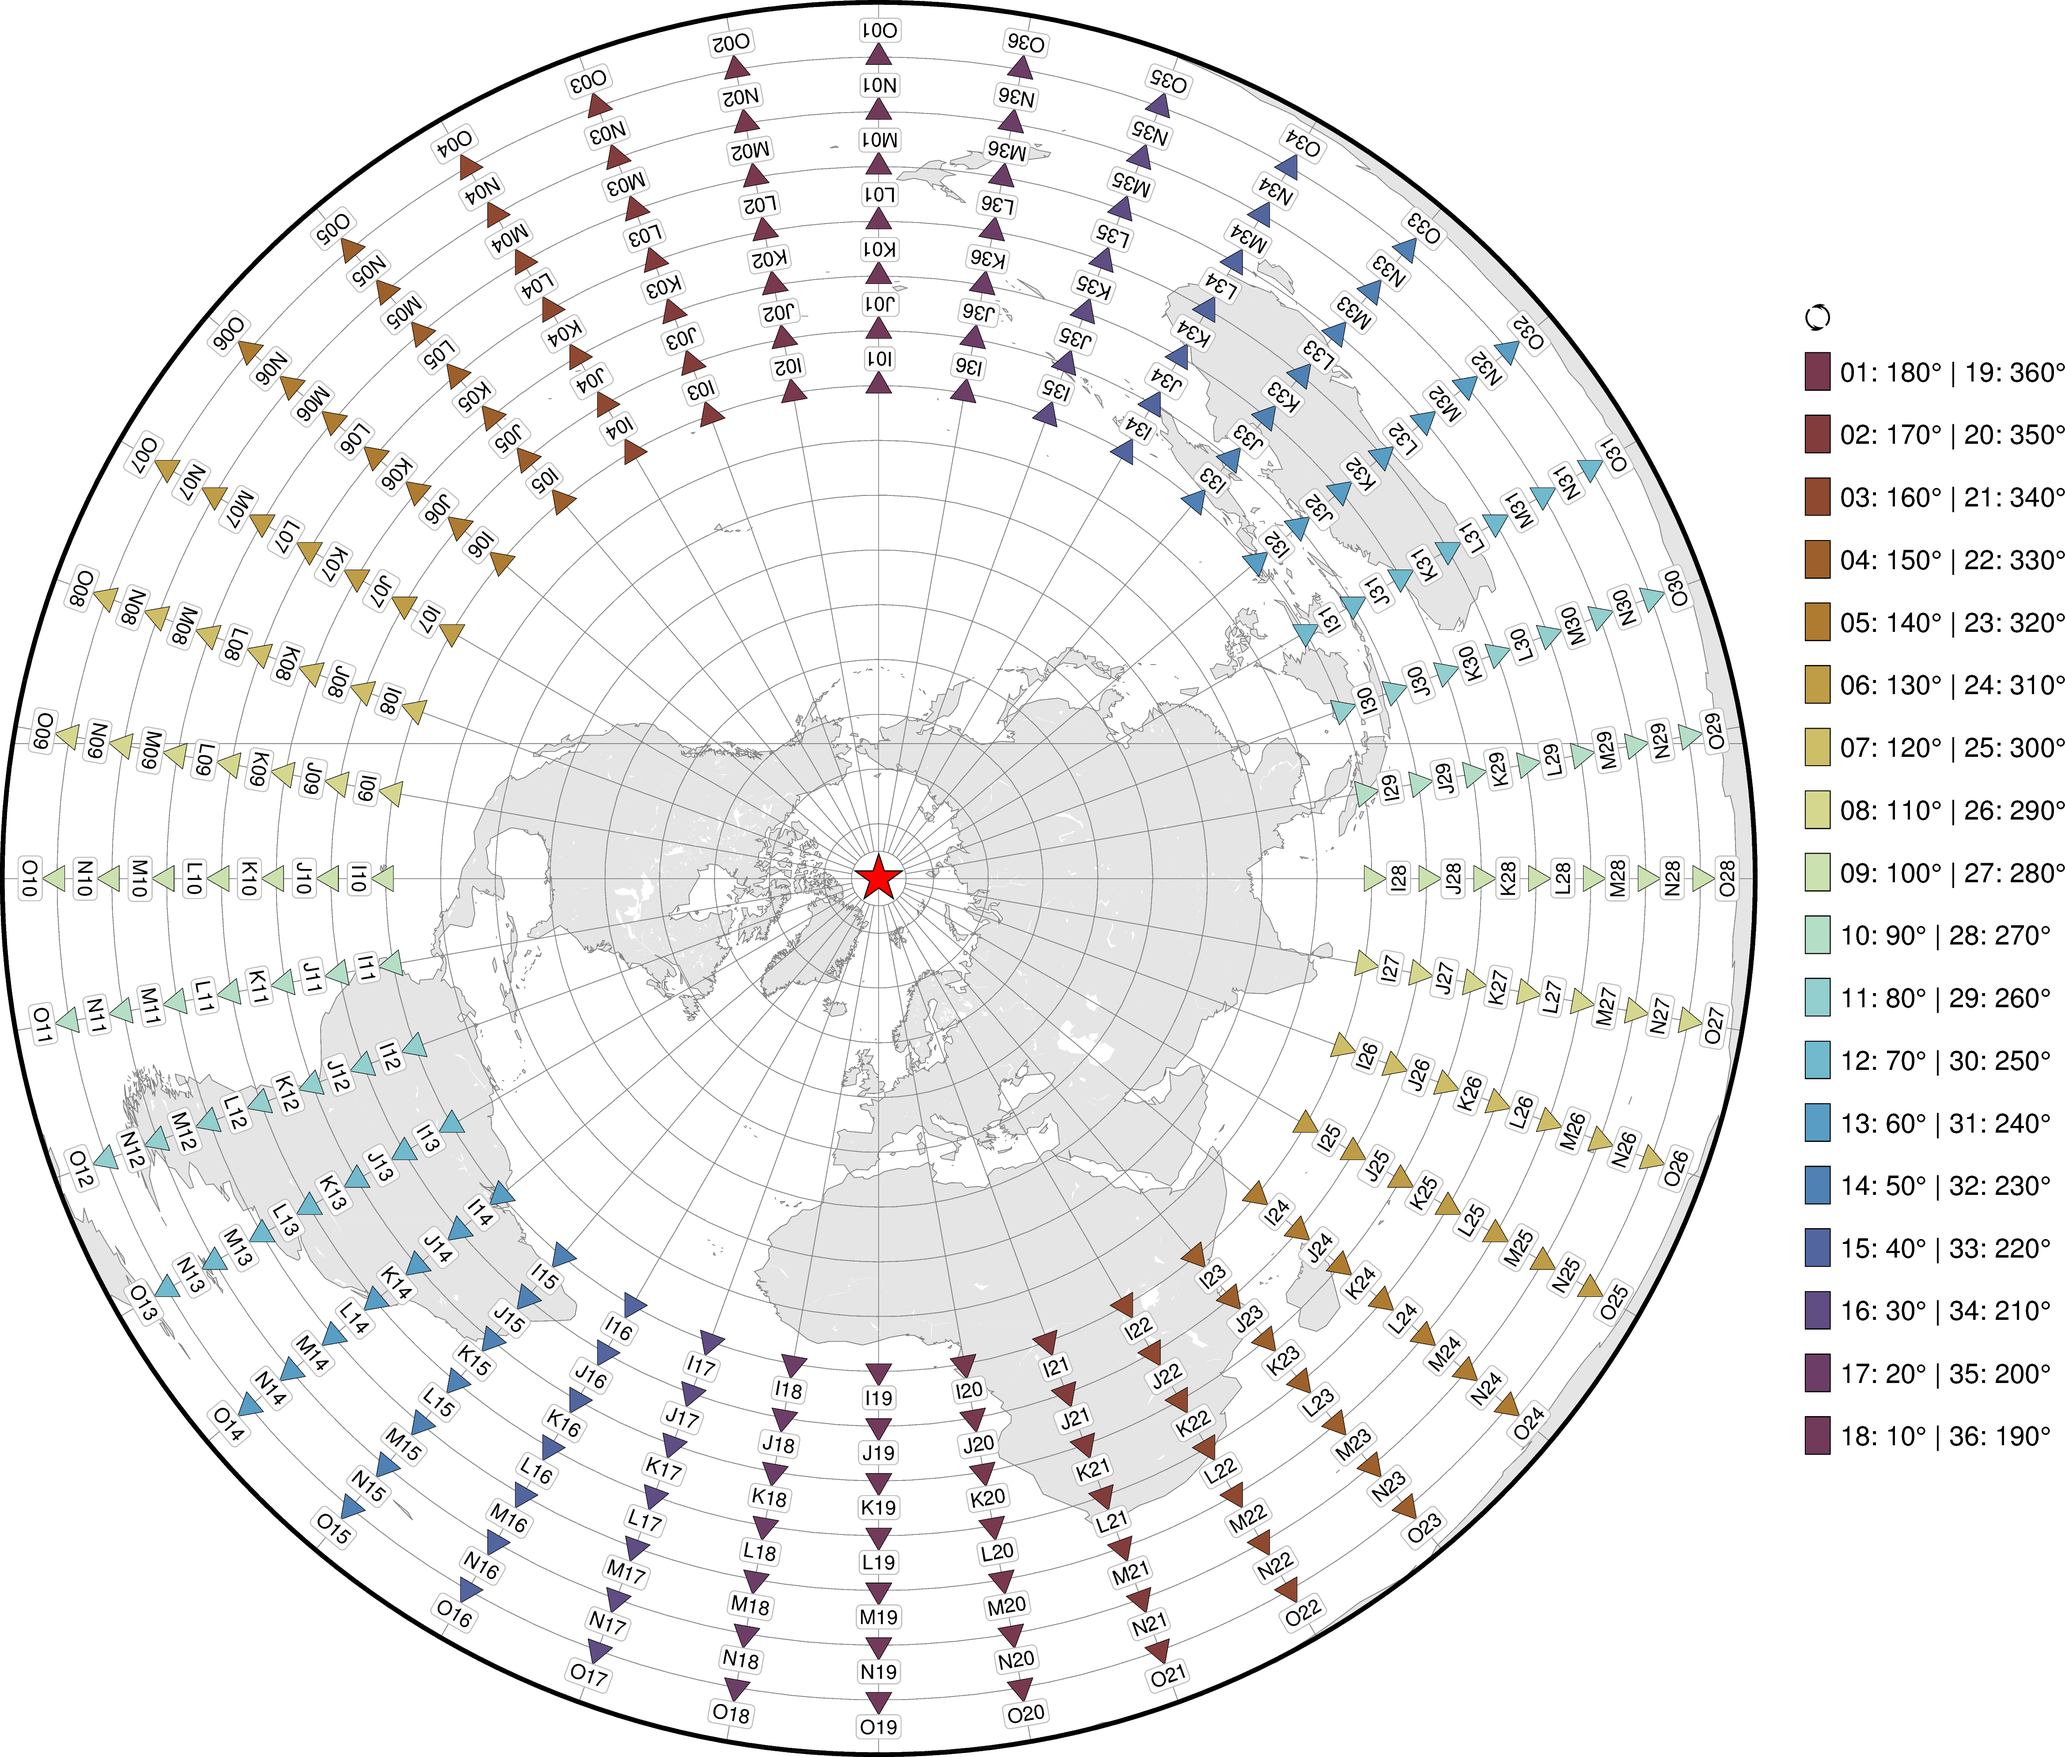
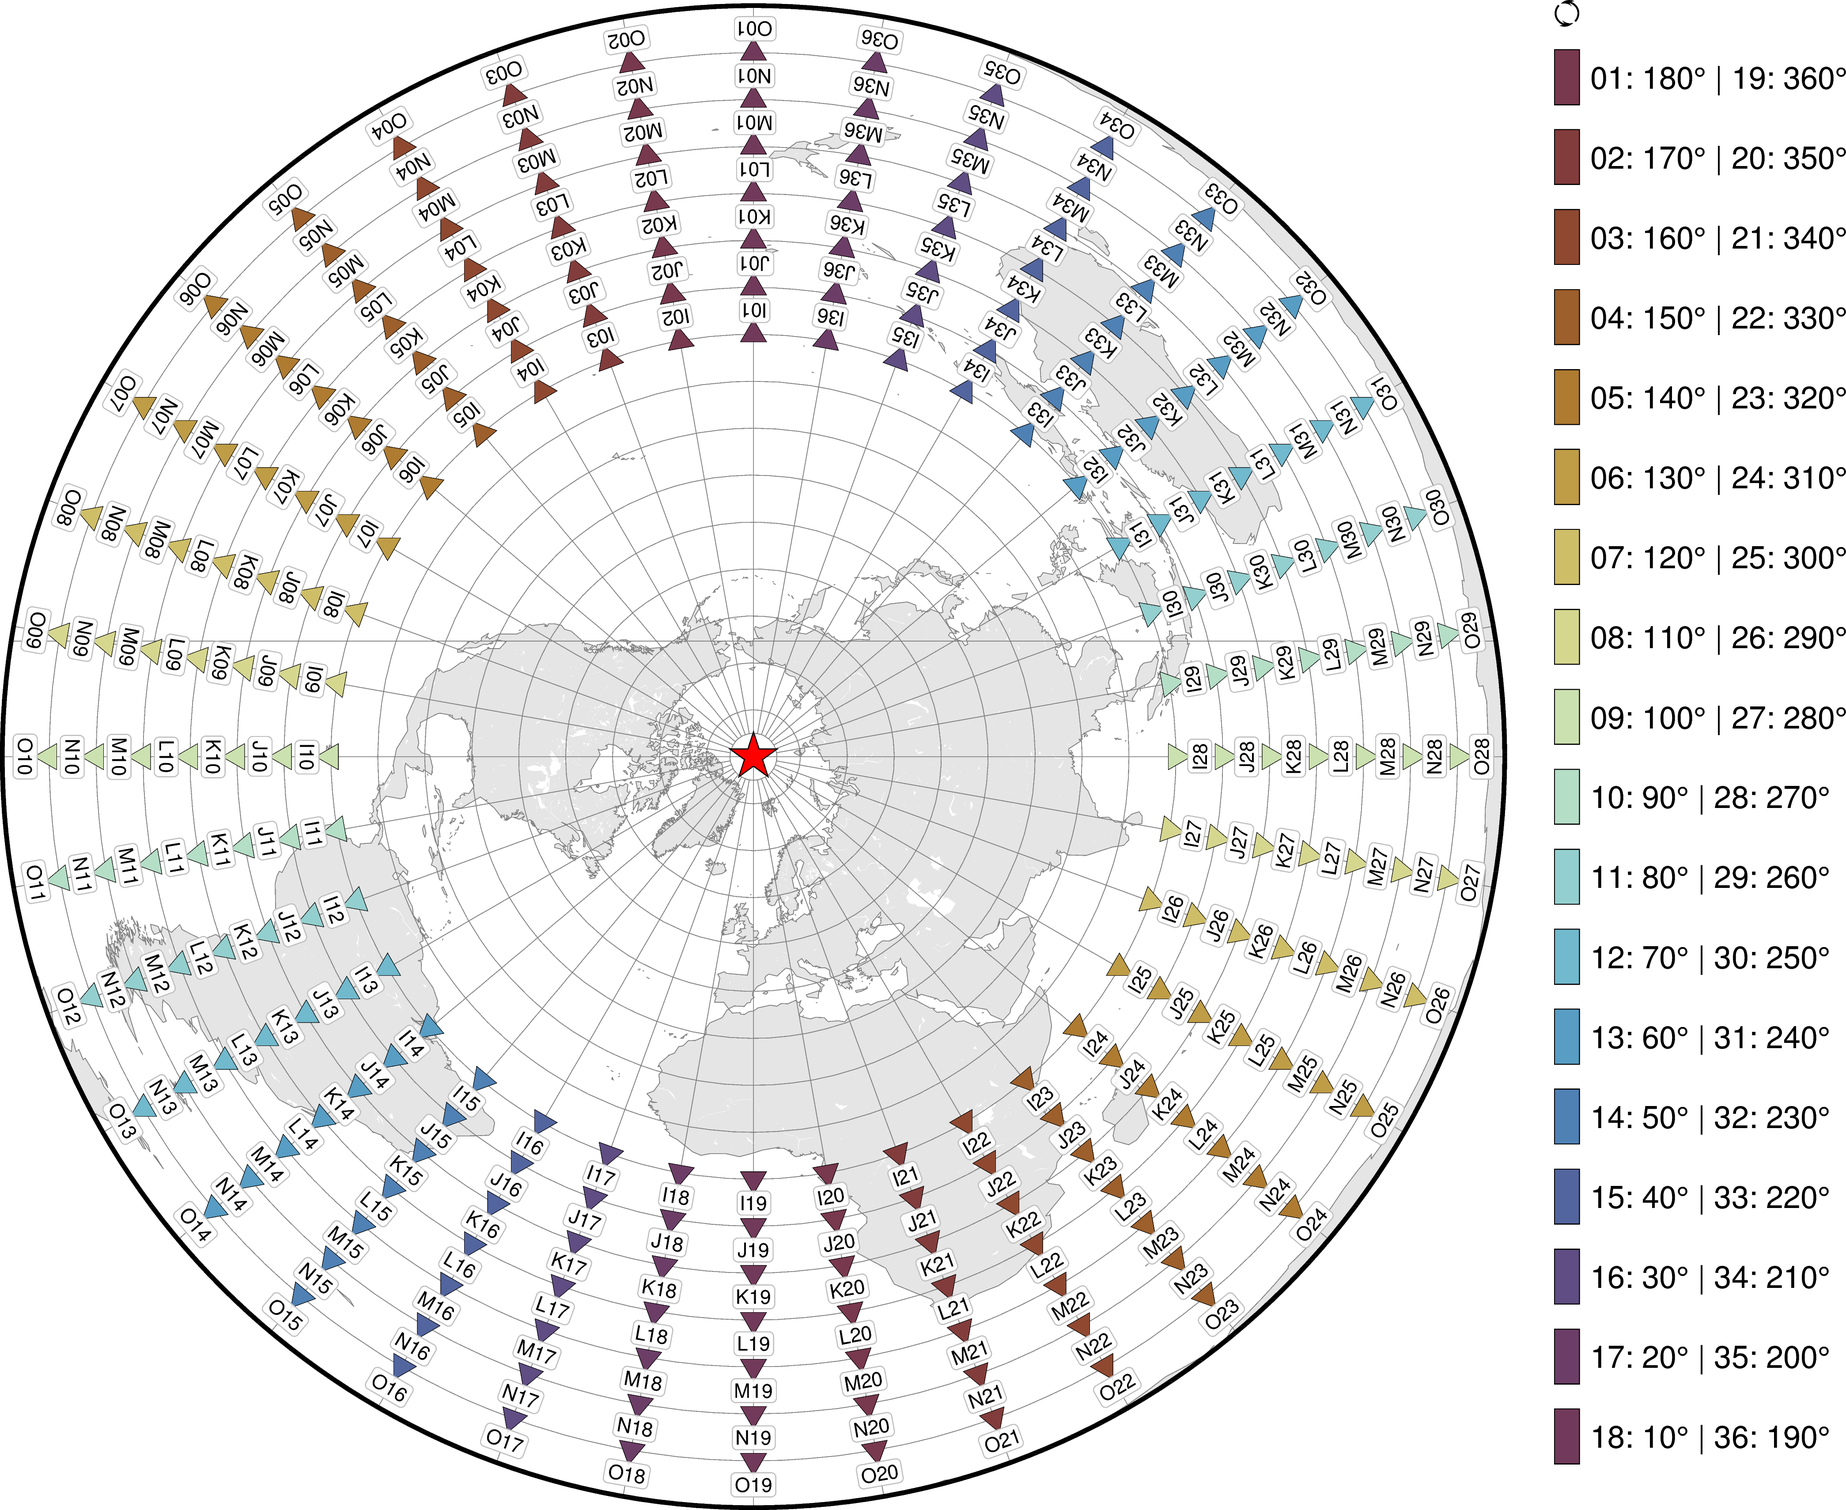
010_axisem: Adjust plotting the colorbar for setup northpole source (#68)

diff --git a/010_axisem/02_setup_northpole_source/setup_northpole_source.py b/010_axisem/02_setup_northpole_source/setup_northpole_source.py
@@ -11,9 +11,10 @@
 # -----------------------------------------------------------------------------
 # History
 # - Created: 2025/03/09
+# - Updated: 2025/04/10 - Improve plotting the colorbar
 # -----------------------------------------------------------------------------
 # Versions
-#   PyGMT v0.14.2 -> https://www.pygmt.org/v0.14.2/ | https://www.pygmt.org/
+#   PyGMT v0.15.0 -> https://www.pygmt.org/v0.15.0/ | https://www.pygmt.org/
 #   GMT 6.5.0 -> https://www.generic-mapping-tools.org/
 # -----------------------------------------------------------------------------
 # Contact
@@ -67,7 +68,7 @@ source_lat = 89.999  # degrees North
 coord_step = 10  # degrees
 
 cb_str = ""
-if status_cb == True:
+if status_cb == True and cmap_quantity != "sta":
     cb_str = "_cb"
 
 match cmap_quantity:
@@ -80,21 +81,23 @@ match cmap_quantity:
 
 match status_proj:
     case "rob":
-        proj_used = "N18c"
+        fig_width = 18
+        proj_used = f"N{fig_width}c"
         no_clip_used = True
         sta_lat_min = 90
         sta_lat_max = -90
         y_text_add = 3.1
         sta_font = 4
     case "ortho":
-        proj_used = "G0/2/10c"
+        fig_width = 12
+        proj_used = f"G0/2/{fig_width}c"
         no_clip_used = False
         sta_lat_min = 80
         sta_lat_max = -70
         y_text_add = 2.5
         sta_font = 4.5
     case "epi":
-        fig_width = 14
+        fig_width = 12
         proj_dist = 160
         dist2fig = fig_width / proj_dist
         proj_used = f"E{source_lon}/{source_lat}/{proj_dist}/{fig_width}c"
@@ -159,12 +162,6 @@ if cmap_quantity == "baz":
         color_model=f"+c{cb_annot_baz}",
         cyclic=True,
     )
-    if status_cb == True:
-        with gmt.config(MAP_FRAME_PEN="0.2p", FONT="8p"):
-            # +r reverse the sense of the positive direction
-            fig.colorbar(
-                cmap=True, position="JRM+jMC+w9c/0.2c+o0.5c/-0.2c+r", equalsize=0.2
-            )
 
 # for epicentral distance (-> latitude)
 elif cmap_quantity == "dist":
@@ -181,11 +178,12 @@ elif cmap_quantity == "dist":
         color_model=f"+c{cb_annot_dist}",
         reverse=True,
     )
-    if status_cb == True:
-        with gmt.config(MAP_FRAME_PEN="0.2p", FONT="8p"):
-            fig.colorbar(
-                cmap=True, position="JRM+jMC+w9.3c/0.2c+o0.5c/0c+r", equalsize=0.2
-            )
+
+if status_cb == True and cmap_quantity != "sta":
+    with gmt.config(MAP_FRAME_PEN="0.2p", FONT="8p"):
+        fig.colorbar(
+            cmap=True, position=f"JRM+jMC+w{fig_width-0.5}c/0.2c+o0.5c/0c+r", equalsize=0.2
+        )
 
 # -----------------------------------------------------------------------------
 # Plot recording stations with color-coding
